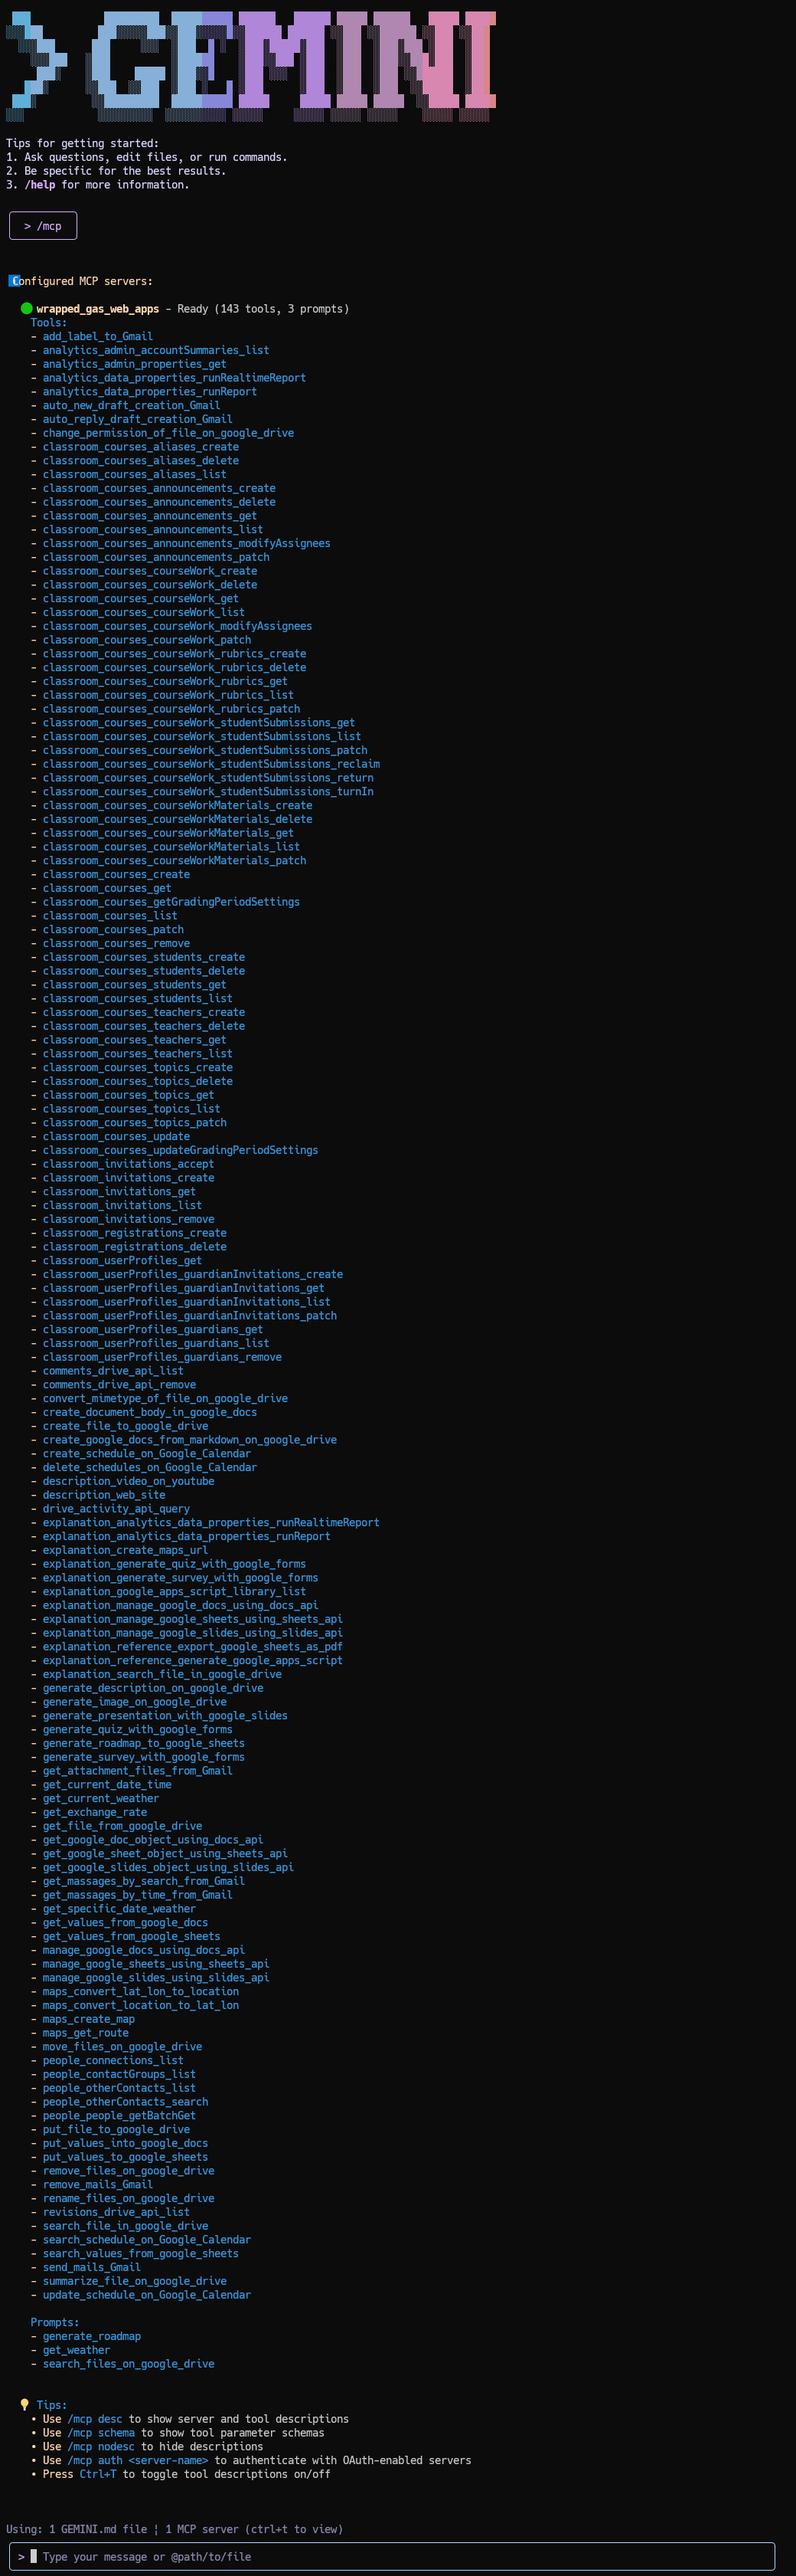
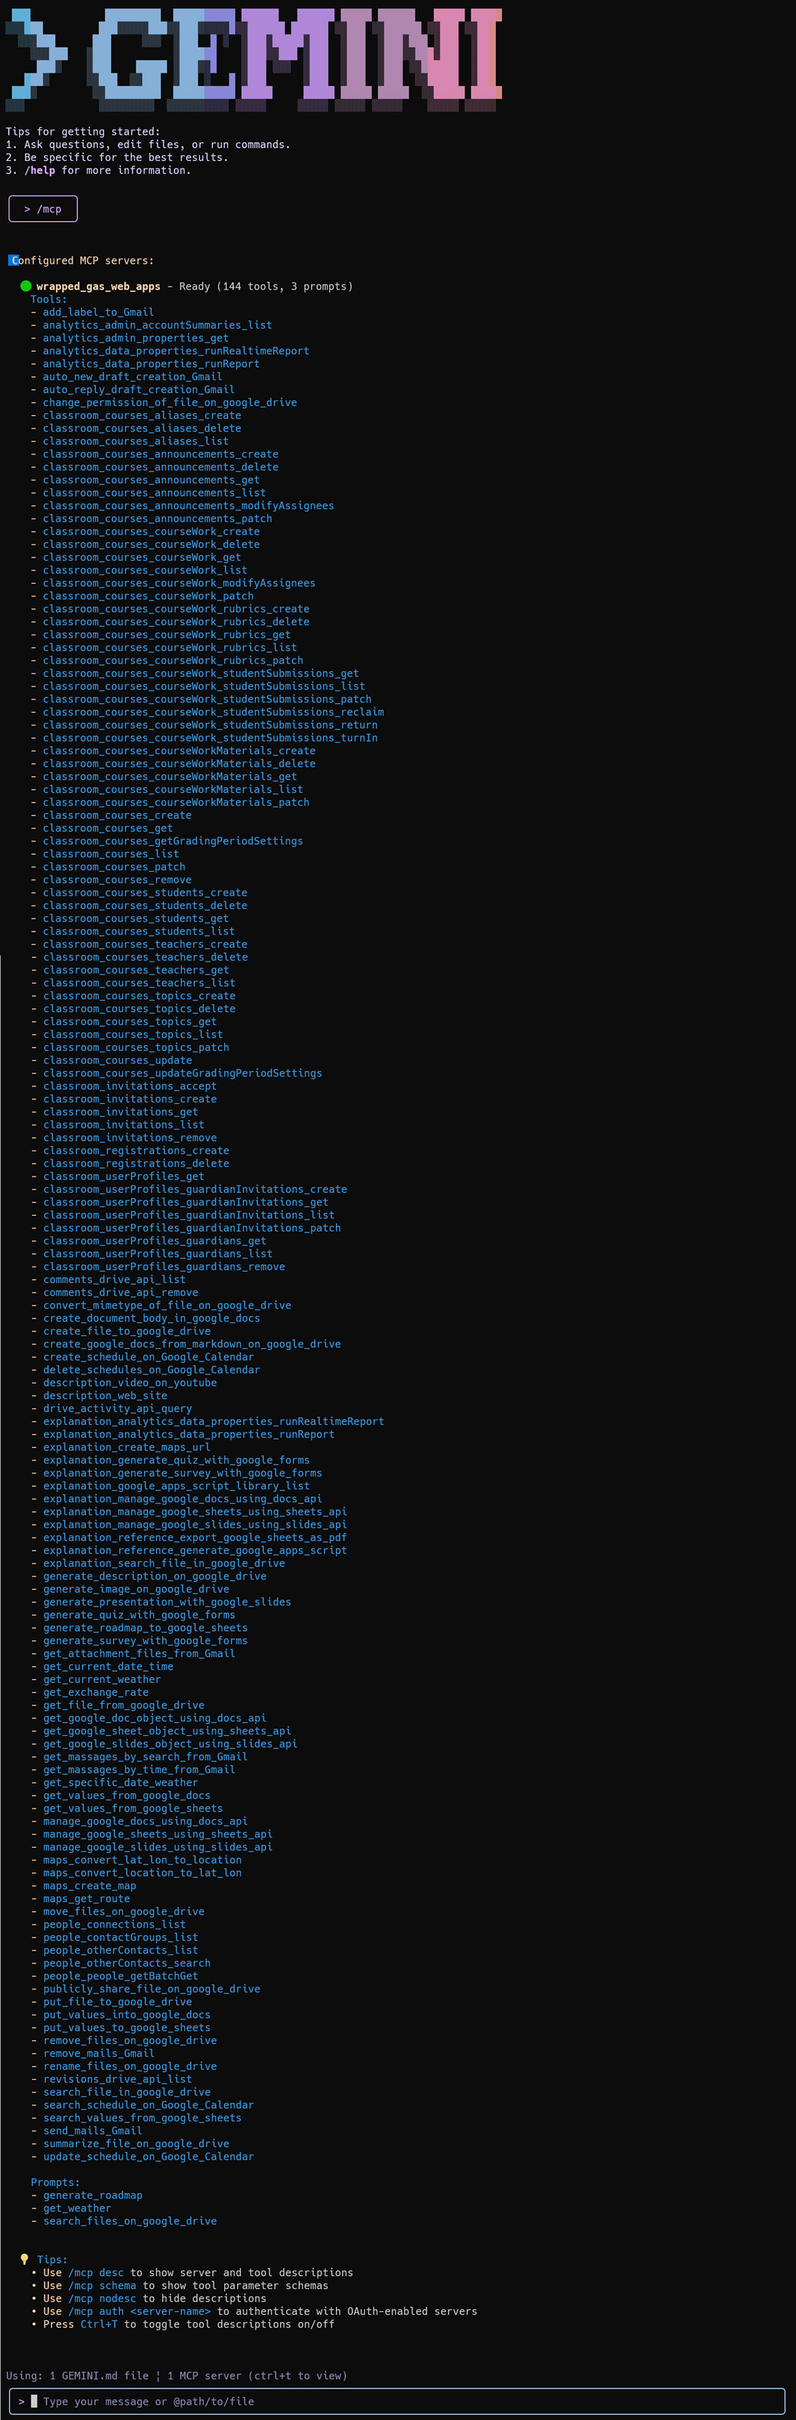
Modified

Changed region(s): [[0.0, 0.0, 0.9846, 1.0]]

diff --git a/README.md b/README.md
@@ -346,7 +346,7 @@ When your setting is correct, the following result is returned.
 ```text
 ℹConfigured MCP servers:
 
-  🟢 wrapped_gas_web_apps - Ready (143 tools, 3 prompts)
+  🟢 wrapped_gas_web_apps - Ready (144 tools, 3 prompts)
     Tools:
     - add_label_to_Gmail
     - analytics_admin_accountSummaries_list
@@ -478,6 +478,7 @@ When your setting is correct, the following result is returned.
     - people_otherContacts_list
     - people_otherContacts_search
     - people_people_getBatchGet
+    - publicly_share_file_on_google_drive
     - put_file_to_google_drive
     - put_values_into_google_docs
     - put_values_to_google_sheets
